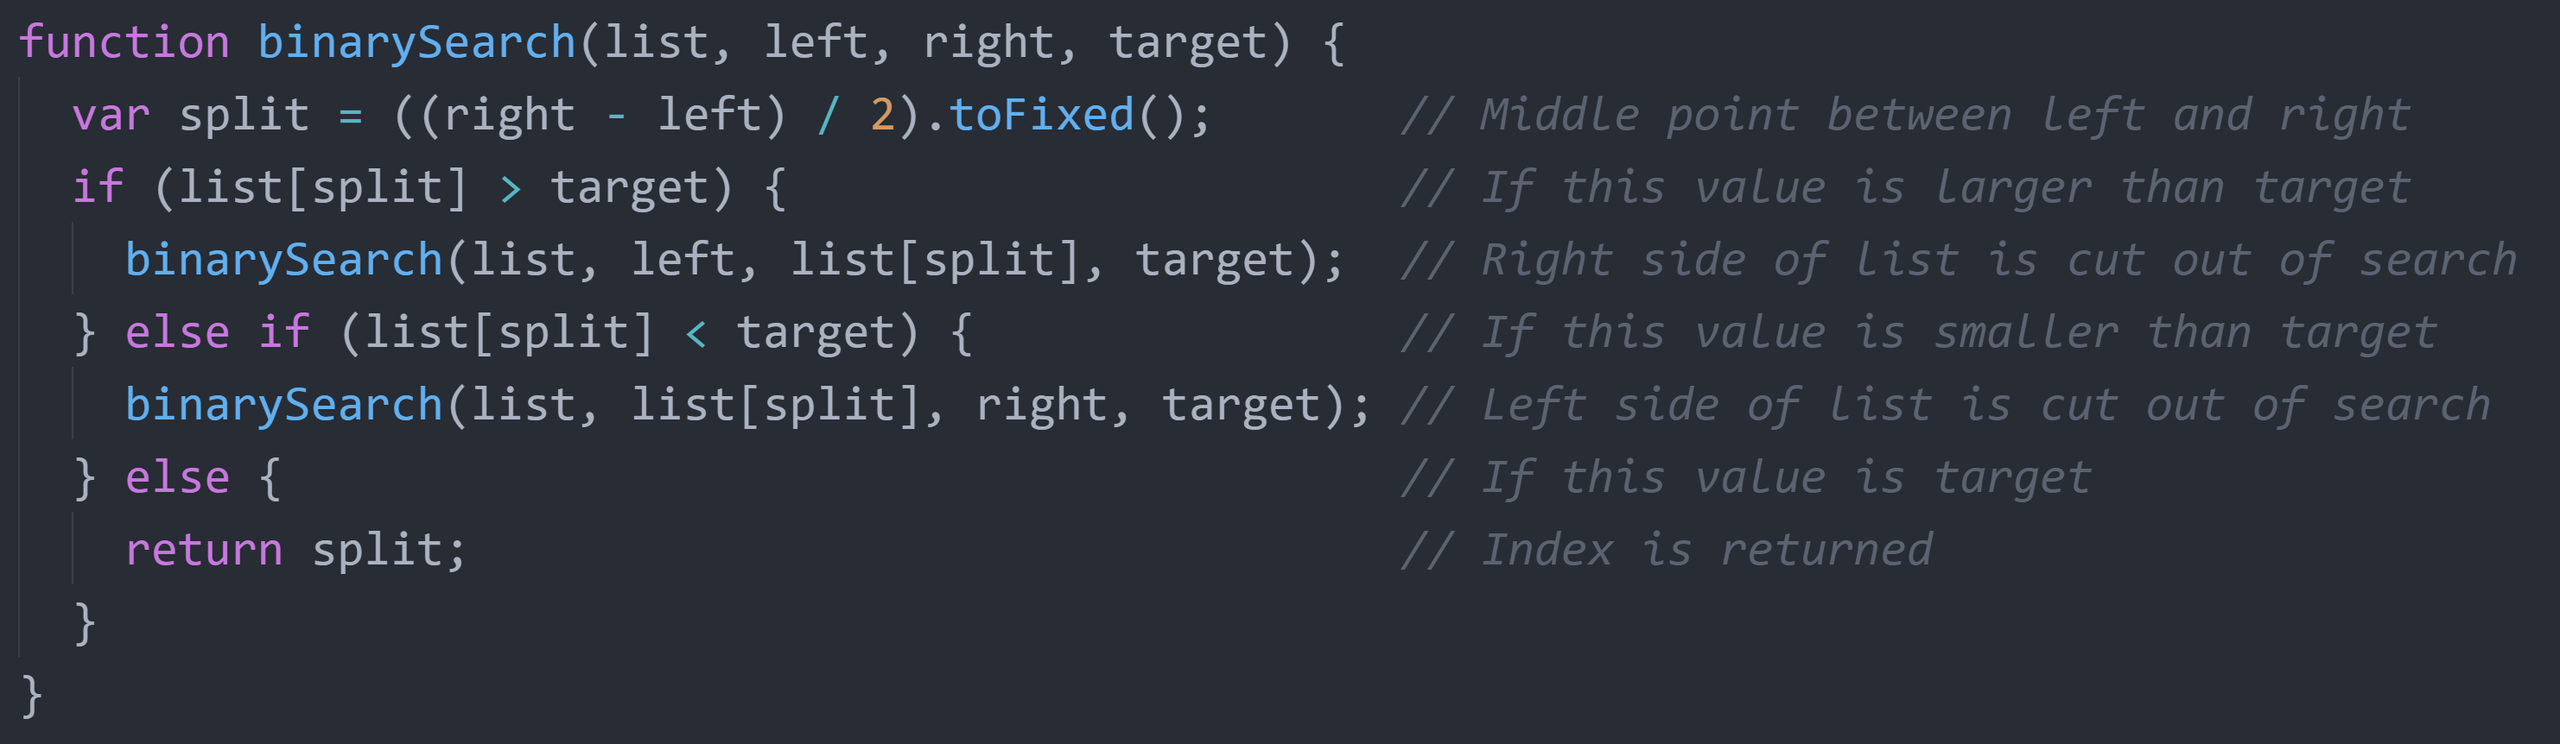
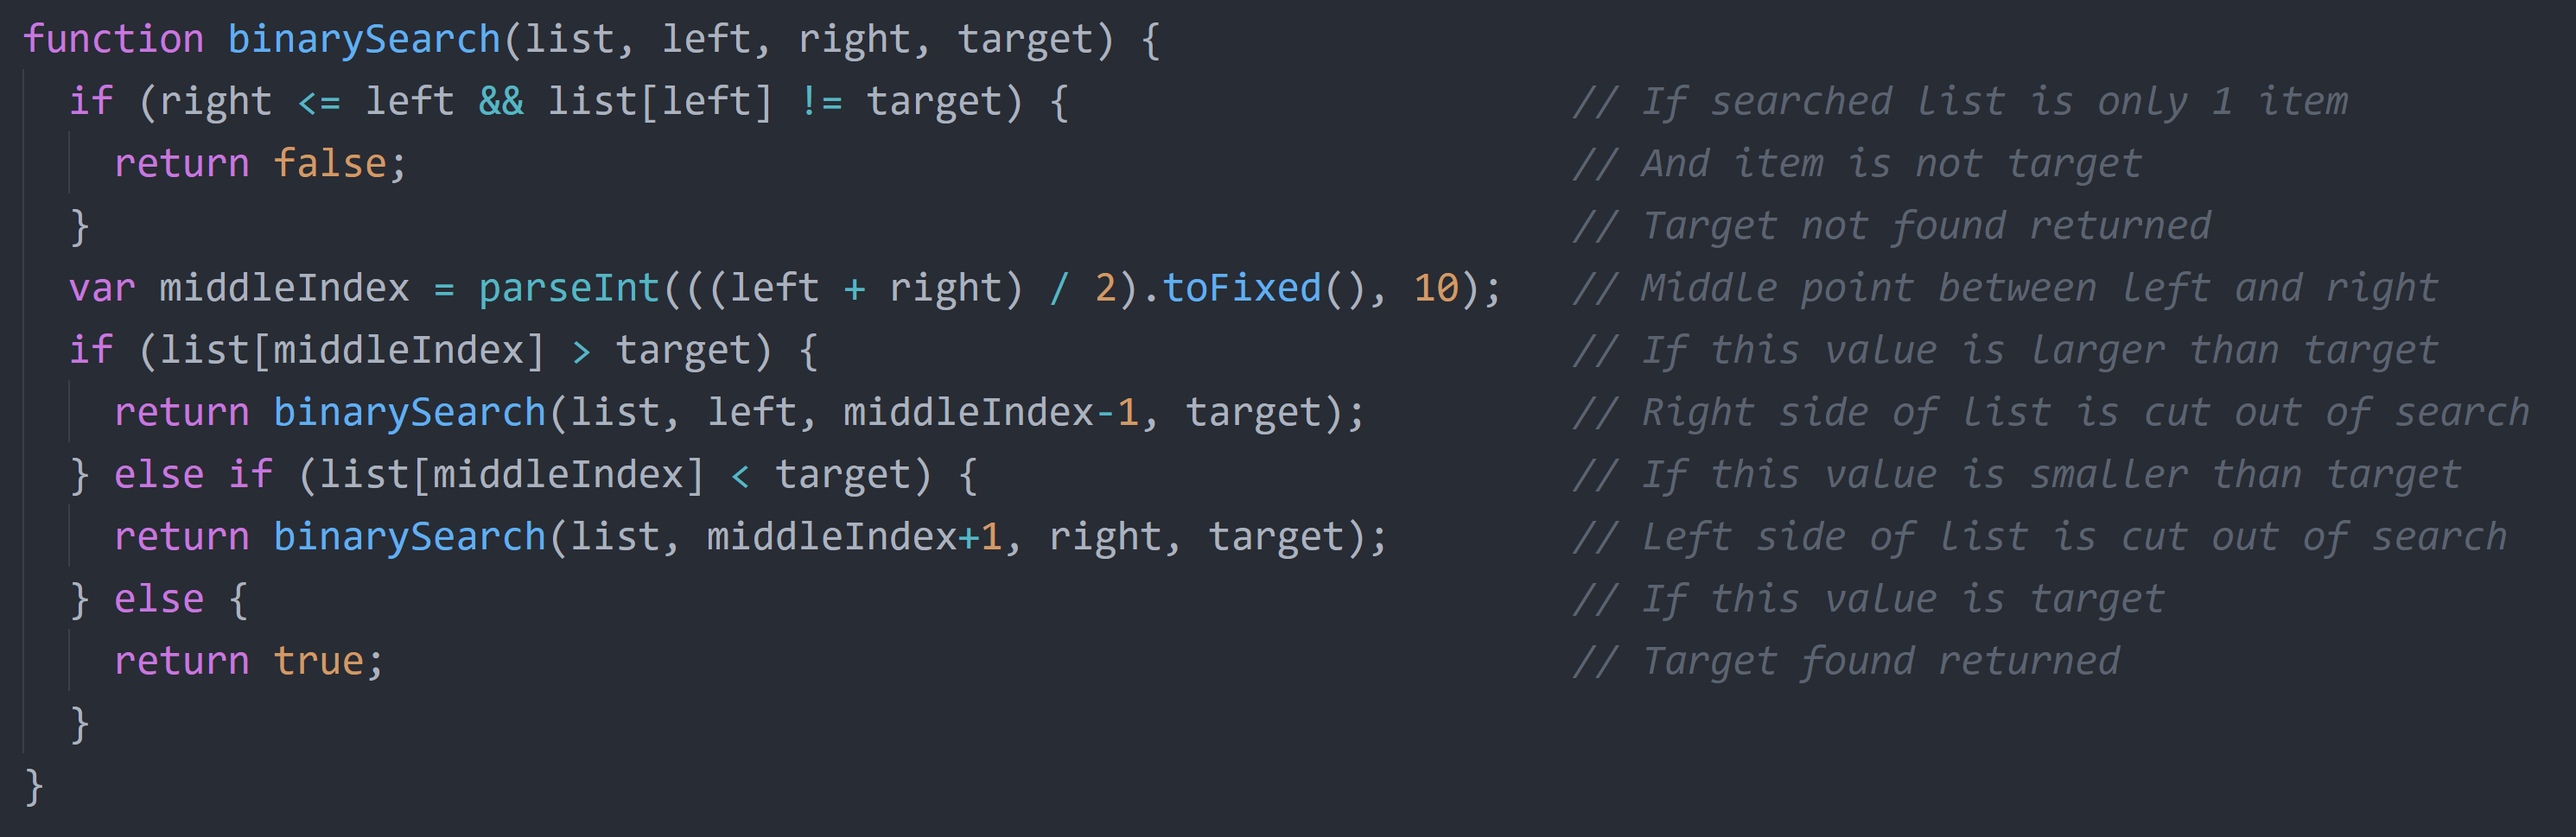
Completed Binary Chop Routine

diff --git a/portfolio/searchroutines.js b/portfolio/searchroutines.js
@@ -87,7 +87,7 @@ function linearSearch(list, target) {
   return false;
 }*/
 
-function binarySearch(list, target) {
+/*function binarySearch(list, target) {
 
   var middleIndex = parseInt((list.length / 2).toFixed(), 10);       // Middle point between left and right
   console.log('Array: ', list);
@@ -111,11 +111,31 @@ function binarySearch(list, target) {
       return true;                                 // Index is returned
     }
   }
+}*/
+
+function binarySearch(list, left, right, target) {
+  console.log('Left:', left, 'Right:', right);
+  if (right <= left && list[left] != target) {
+    console.log('NOT FOUND!');
+    return false;                                         // Found = false
+  }
+  var middleIndex = parseInt(((left + right) / 2).toFixed(), 10);       // Middle point between left and right
+  console.log('Middle Index: ', middleIndex, '(', list[middleIndex], ')');
+  if (list[middleIndex] > target) {                       // If this value is larger than target
+    console.log('Not in right side: ', list);
+    return binarySearch(list, left, middleIndex-1, target);      // Right side of list is cut out of search
+  } else if (list[middleIndex] < target) {                // If this value is smaller than target
+    console.log('Not in left side: ', list);
+    return binarySearch(list, middleIndex+1, right, target);     // Left side of list is cut out of search
+  } else {                                                // If this value is target
+    console.log('FOUND!');
+    return true;                                          // Found = true
+  }
 }
 
 
 function blah2(target) {
-  var foundIt = binarySearch([1,2,4,6,9], target);
+  var foundIt = binarySearch([1, 2, 4, 6, 9, 10, 56], 0, 6, target);
 
   console.log('### found it? ', foundIt);
 }
@@ -143,9 +163,9 @@ $(document).ready(function() {
     var listInput = unsplitListInput.split(/[\s,]+/);
     parseIntArray(listInput);
     if ($('input:checked').val() == 'linearSearch') {
-      referToSearch(target, linearSearch, listInput);
+      referToSearch(target, 'linear', listInput);
     } else {
-      referToSearch(target, binarySearch, quickSort(listInput, 0, listInput.length-1));
+      referToSearch(target, 'binary', listInput);
     }
   });
 
@@ -161,9 +181,11 @@ $(document).ready(function() {
       listGen.push(Math.floor((Math.random() * 10) + 1));
     }
     if ($('input:checked').val() == 'linearSearch') {
-      referToSearch(target, linearSearch, listGen);
+      console.log('Linear referred')
+      referToSearch(target, 'linear', listGen);
     } else {
-      referToSearch(target, binarySearch, quickSort(listGen, 0, listGen.length-1));
+      console.log('Binary referred')
+      referToSearch(target, 'binary', quickSort(listGen, 0, listGen.length-1));
     }
   }
 
@@ -176,10 +198,12 @@ $(document).ready(function() {
       return;
     }
     var t0 = performance.now();
-    if (method == 'binarySearch') {
-      var found = method(list, target);
+    if (method == 'binary') {
+      console.log('Binary Search Called')
+      var found = binarySearch(quickSort(list, 0, list.length-1), 0, list.length-1, target);
     } else {
-      var found = method(list, target);
+      console.log('Linear Search Called')
+      var found = linearSearch(list, target);
     }
     var t1 = performance.now();
     var timeTaken = (t1 - t0).toFixed(4) + 'ms';
